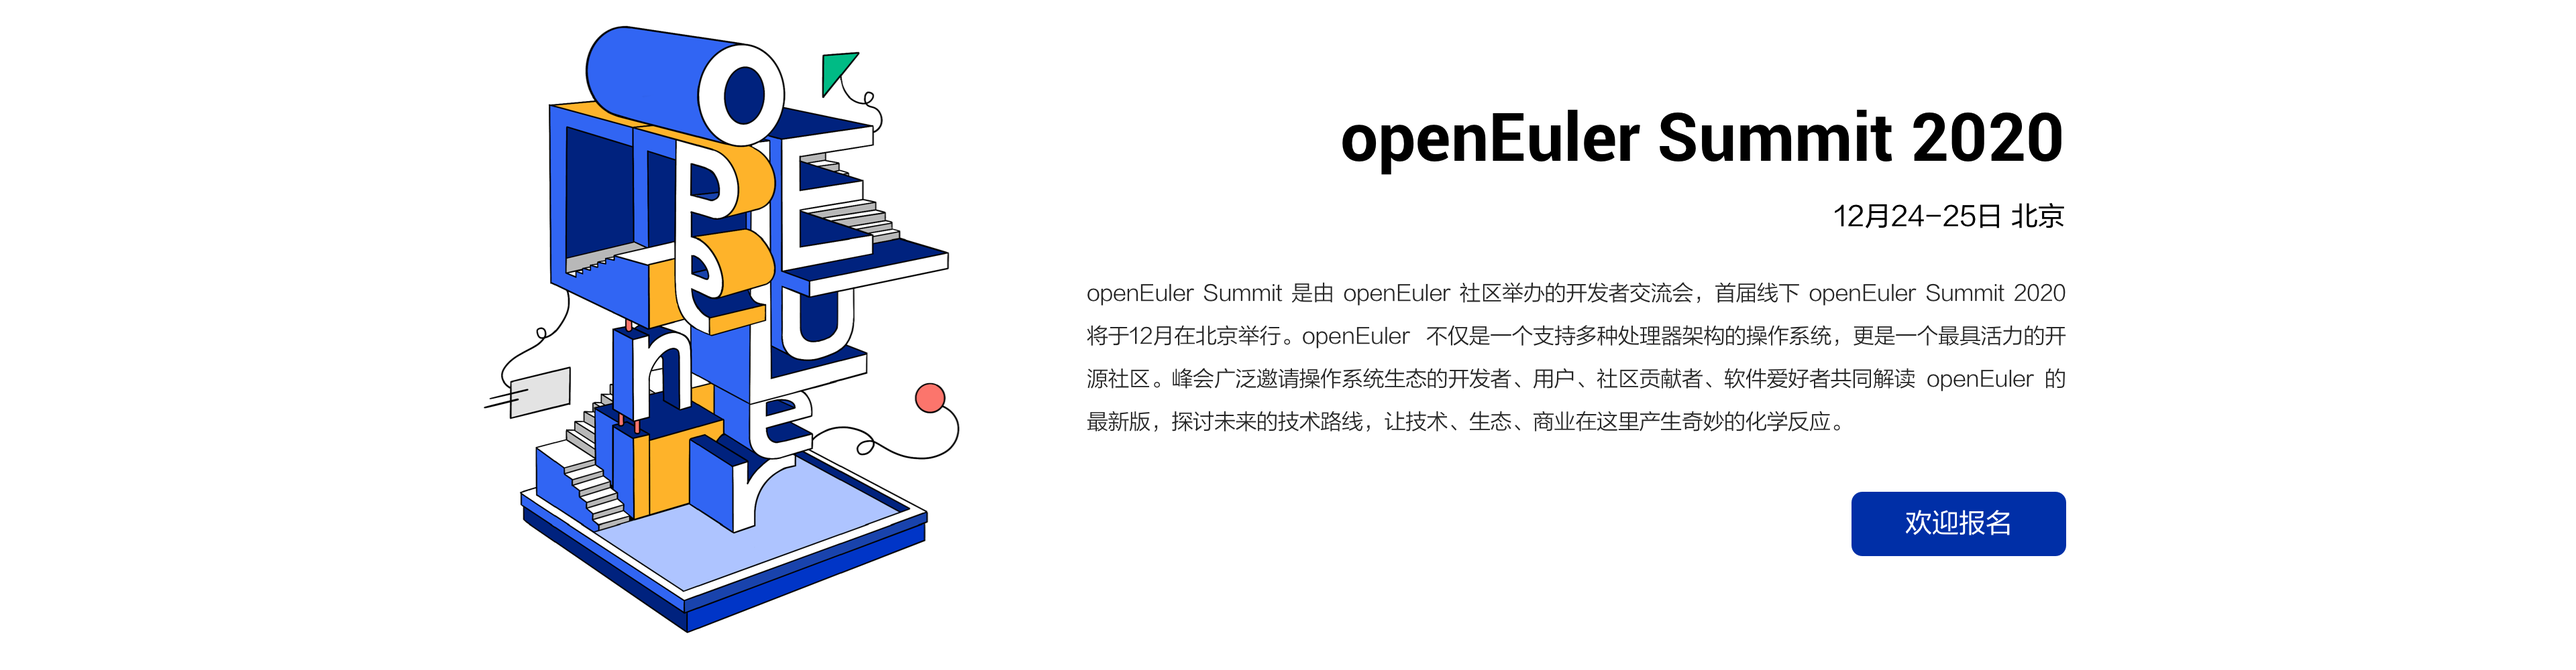
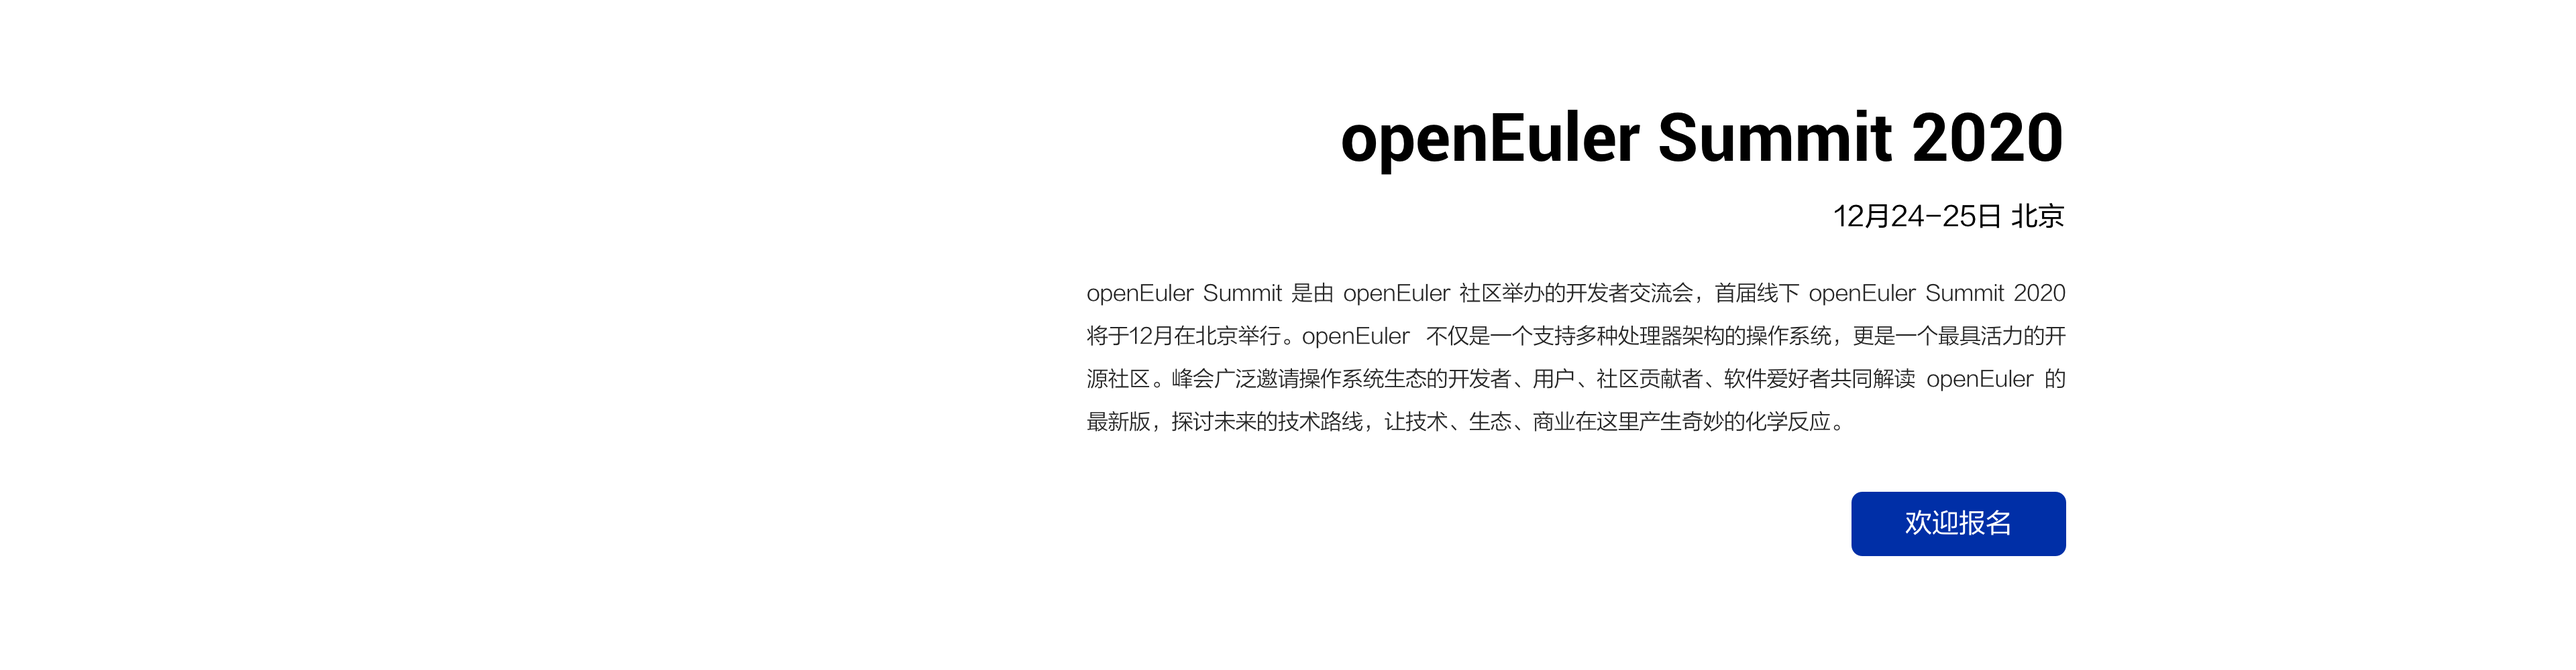
调整首页视频的位置

Changed region(s): [[0.1875, 0.031, 0.375, 0.961], [0.3438, 0.558, 0.375, 0.62]]

diff --git a/web-ui/docs/.vuepress/components/home/home.vue b/web-ui/docs/.vuepress/components/home/home.vue
@@ -8,7 +8,7 @@
                 </el-carousel-item>
                  <el-carousel-item v-for="(item,index) in i18n.home.HOME_OTHER_BANNER">
                     <div class="carousel-banner" :style="{backgroundImage: item.BANNER_PC_IMG}" @click="go(item.BANNER_LINK)">
-                        <video autoplay loop muted width="40%" height="500px" id="summit-video">
+                        <video autoplay loop muted width="650px" height="500px" id="summit-video">
                             <source src="https://openeuler-website.obs.ap-southeast-1.myhuaweicloud.com/openEuler%20Summit%202020%20mov.mp4"  type="video/mp4">
                         </video>
                     </div>
@@ -467,7 +467,7 @@
                 rooms2: false,
                 rooms3: false,
                 calenderData: [],
-                autoPlay: true,
+                autoPlay: false,
                 videoCtrlParams:{
                     element: '',
                     isShow: false,  //默认不显示控制器
@@ -704,7 +704,11 @@
 <style lang="less">
     #summit-video {
         background-color: white !important;
-        margin-left: 1%;
+        position: absolute;
+        left: 50%;
+        top: 50%;
+        margin-left: -780px;
+        margin-top: -250px;
     }
     .home-banner .el-carousel__button {
         height: 10px;
@@ -1068,6 +1072,7 @@
         width: 100%;
         height: 100%;
         cursor: pointer;
+        position: relative;
         background-size: contain;
         background-repeat: no-repeat;
         background-position: center center;
